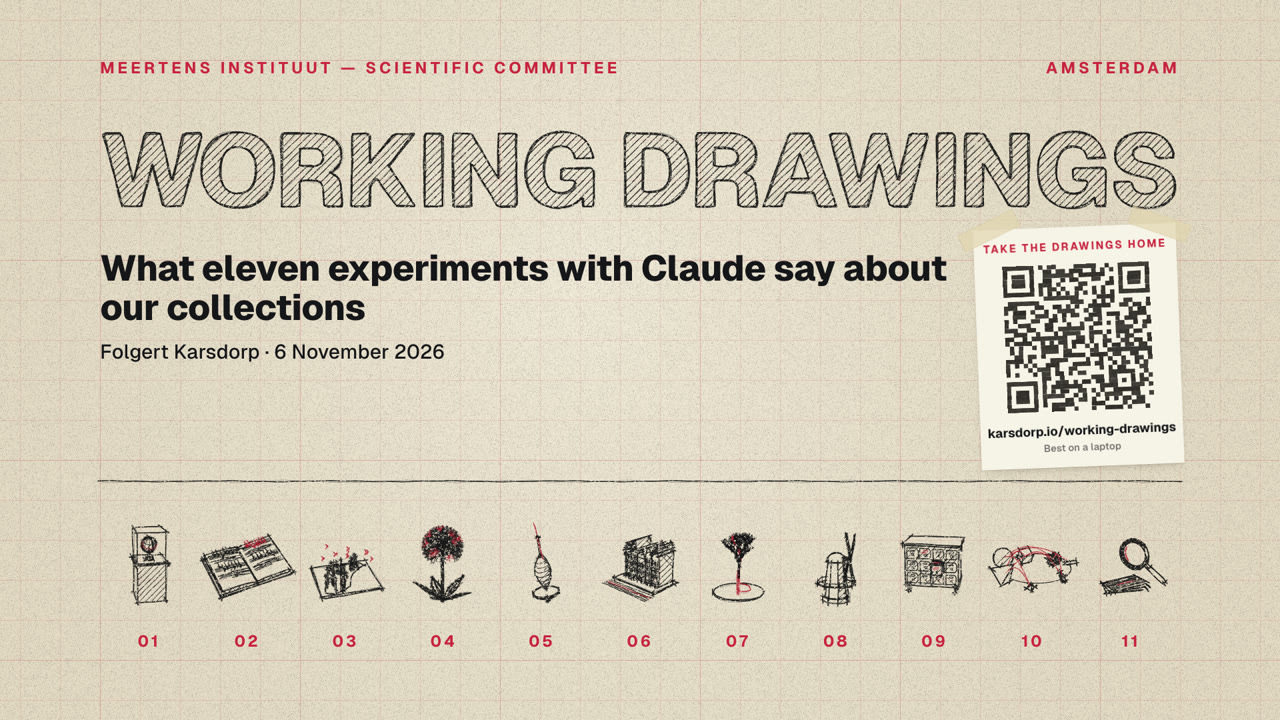
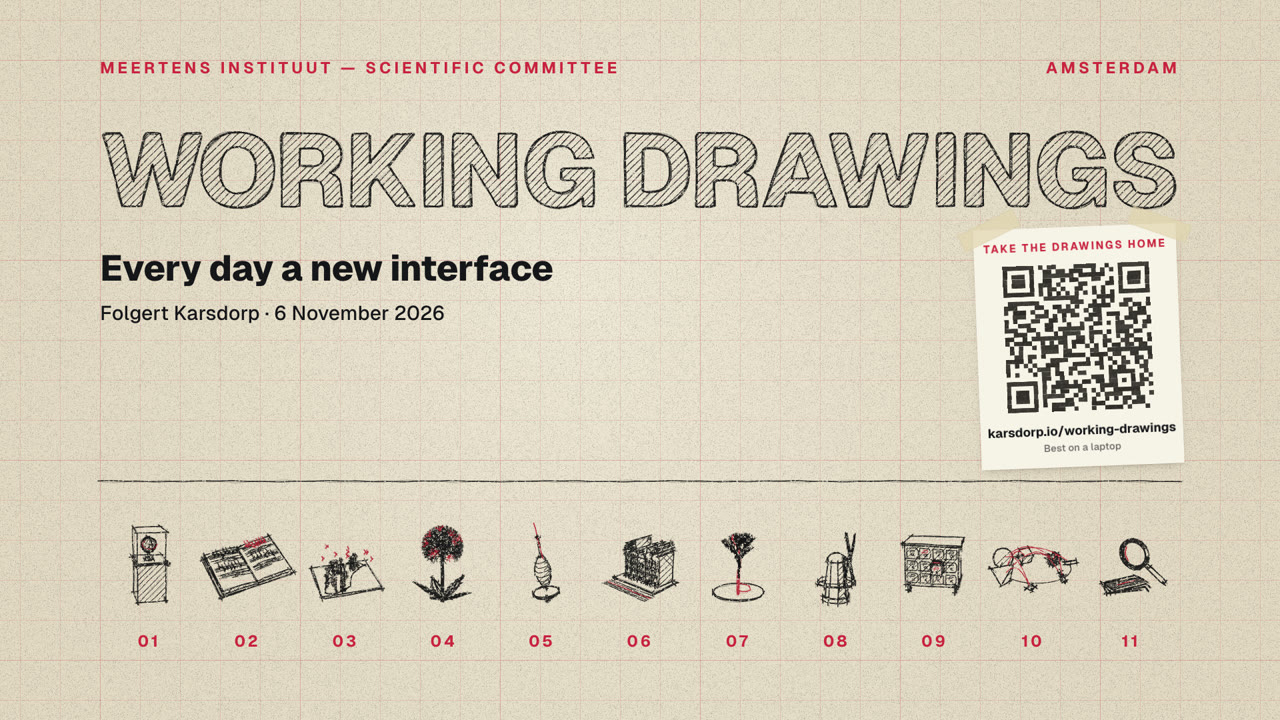
Subtitle: Every day a new interface

diff --git a/js/content.js b/js/content.js
@@ -12,7 +12,7 @@ window.DECK = {
     big: { en: ["WORKING DRAWINGS"], nl: ["WERKTEKENINGEN"] },
     kicker: { en: "Meertens Instituut — Scientific Committee", nl: "Meertens Instituut — Wetenschappelijke Commissie" },
     place: { en: "Amsterdam", nl: "Amsterdam" },
-    title: { en: "What eleven experiments with Claude say about our collections", nl: "Wat elf experimenten met Claude zeggen over onze collecties" },
+    title: { en: "Every day a new interface", nl: "Elke dag een nieuwe interface" },
     by: { en: "Folgert Karsdorp · 6 November 2026", nl: "Folgert Karsdorp · 6 november 2026" },
   },
 
